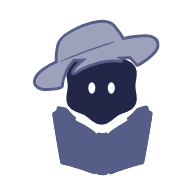
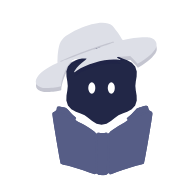
Test version: hat stands out with a soft shadow instead of an outline; clearer head at night
Claude-Session: https://claude.ai/code/session_01SnNWWGU4BvZ2AAGobJocPY

Changed region(s): [[0.1562, 0.0938, 0.8438, 0.5]]

diff --git a/beta/index.html b/beta/index.html
@@ -3715,9 +3715,10 @@ function aiHebrewDate(d){const h=hd(d);return `${h.d} ${h.n[0]} ${h.y}`}
    adm:1 = admin-only → counts as small in the version but is never announced.
    The shown version (bottom of ⋯, popups) is worked out from these sizes by ccVerStr(). A batch shows the biggest kind it contains.
    Whole new feature -> may also set `tour:'<id>'` (an id in SETS inside ccTourStart) so "Show me" runs a live tour. */
-const CC_VER=227;
+const CC_VER=228;
 const CC_LOG=[
-  {v:180,new:['The stats rings now use the new wavy style too.']},{v:181,new:['Clearer stats screen: rings and buttons easy to see in the evening, round day dots.']},{v:182,new:['Easier to read around sunset, clearer selected buttons, neater month boxes.']},{v:183,new:['Matching shapes: reminder cards, ticked shiurim and the streak days.']},{v:184,new:['Material 3 shapes for the calendar markers, the streak days and the stats.']},{v:185,new:['Each shiur has its own shape in the stats.']},{v:186,mid:1,new:['Month view: tap a day to see what’s on it right under the week; tap it again to open the day.']},{v:187,new:['Smoother and lighter on the battery: faster day changes, quieter when idle.']},{v:188,mid:1,new:['New motion everywhere: springy, physical animations — windows grow from where you tap and their content flows in.']},{v:189,mid:1,new:['Real Material 3 motion: windows grow out of the button you tap and shrink back into it, swipes between days and months follow your finger and keep its speed, selected buttons slide to their new place.']},{v:190,new:['Faster, smoother animations.']},{v:191,new:['No more blue flash when you tap something.']},{v:192,mid:1,new:['Shapes change into other shapes: ticking a box turns its square into a scalloped cookie, the selected day becomes a new shape, switches and buttons morph when you press them.']},{v:193,new:['Fixed: tapping a shiur box ticks it again.']},{v:194,mid:1,new:['The siddur has a little compass arrow at the top that points toward Yerushalayim. Tap it to see the direction.']},{v:195,new:['The siddur arrow is now a soft triangle that points the way to daven (map direction or shortest path — tap it to choose).']},{v:196,new:['The siddur direction arrow has its new shape.']},{v:197,new:['The drop arrow and its flying bubbles are gone; the cards now simply slide up as you scroll.']},{v:198,new:['Windows open and close a little slower, so the motion is easier to enjoy.']},{v:199,new:['The month view no longer looks stretched: shorter day boxes, and windows keep their shape while they open.']},{v:200,mid:1,new:['In the siddur, swipe sideways to move between Shacharis, Mincha, Maariv, Bentching and Shema; swipe in from the left edge to close it.']},{v:201,new:['Month view: the shapes behind today and the selected day are no longer stretched sideways.']},{v:202,big:1,new:['Material 3 everywhere, fixed and finished: every window grows from its button and shrinks back into it (also the full-screen ones), text stays crisp while windows move, sliding highlights in the siddur tabs, the week strip follows your finger, predictive back, moving wavy rings, a new loader, pressed buttons make room for each other, and Material 3’s Roboto Flex font.']},{v:203,new:['Cleaner look: one font for all English, solid sheets, crisper scrolling, clearer selected day, tidier settings and shiurim, calmer dusk.']},{v:204,new:['Fixes from a full check: stats now count today properly, the phone’s Back button closes the How & when guide, clearer choices at night, and small tidy-ups in the siddur and assistant.']},{v:205,new:['The stats page is much lighter and smoother (it could freeze or close the app).']},{v:206,new:['Today’s streak shape now spins into a new shape and fills up a quarter for every shiur you check off.']},{v:207,new:['Today’s streak shape now really spins (a full turn) as it changes shape.']},{v:208,new:['The assistant button is now a silhouette in the app’s colour, with a shape-shifting head that spins as you scroll.']},{v:209,new:['The assistant button has small eyes again, sized for his new head.']},{v:210,new:['The assistant has the new look everywhere he appears — every window and the notifications.']},{v:211,new:['His head stays still while he’s asleep.']},{v:227,new:['Swiping windows closed is smoother, and the Coming up date tiles have new rounded Material 3 shapes.']},
+  {v:180,new:['The stats rings now use the new wavy style too.']},{v:181,new:['Clearer stats screen: rings and buttons easy to see in the evening, round day dots.']},{v:182,new:['Easier to read around sunset, clearer selected buttons, neater month boxes.']},{v:183,new:['Matching shapes: reminder cards, ticked shiurim and the streak days.']},{v:184,new:['Material 3 shapes for the calendar markers, the streak days and the stats.']},{v:185,new:['Each shiur has its own shape in the stats.']},{v:186,mid:1,new:['Month view: tap a day to see what’s on it right under the week; tap it again to open the day.']},{v:187,new:['Smoother and lighter on the battery: faster day changes, quieter when idle.']},{v:188,mid:1,new:['New motion everywhere: springy, physical animations — windows grow from where you tap and their content flows in.']},{v:189,mid:1,new:['Real Material 3 motion: windows grow out of the button you tap and shrink back into it, swipes between days and months follow your finger and keep its speed, selected buttons slide to their new place.']},{v:190,new:['Faster, smoother animations.']},{v:191,new:['No more blue flash when you tap something.']},{v:192,mid:1,new:['Shapes change into other shapes: ticking a box turns its square into a scalloped cookie, the selected day becomes a new shape, switches and buttons morph when you press them.']},{v:193,new:['Fixed: tapping a shiur box ticks it again.']},{v:194,mid:1,new:['The siddur has a little compass arrow at the top that points toward Yerushalayim. Tap it to see the direction.']},{v:195,new:['The siddur arrow is now a soft triangle that points the way to daven (map direction or shortest path — tap it to choose).']},{v:196,new:['The siddur direction arrow has its new shape.']},{v:197,new:['The drop arrow and its flying bubbles are gone; the cards now simply slide up as you scroll.']},{v:198,new:['Windows open and close a little slower, so the motion is easier to enjoy.']},{v:199,new:['The month view no longer looks stretched: shorter day boxes, and windows keep their shape while they open.']},{v:200,mid:1,new:['In the siddur, swipe sideways to move between Shacharis, Mincha, Maariv, Bentching and Shema; swipe in from the left edge to close it.']},{v:201,new:['Month view: the shapes behind today and the selected day are no longer stretched sideways.']},{v:202,big:1,new:['Material 3 everywhere, fixed and finished: every window grows from its button and shrinks back into it (also the full-screen ones), text stays crisp while windows move, sliding highlights in the siddur tabs, the week strip follows your finger, predictive back, moving wavy rings, a new loader, pressed buttons make room for each other, and Material 3’s Roboto Flex font.']},{v:203,new:['Cleaner look: one font for all English, solid sheets, crisper scrolling, clearer selected day, tidier settings and shiurim, calmer dusk.']},{v:204,new:['Fixes from a full check: stats now count today properly, the phone’s Back button closes the How & when guide, clearer choices at night, and small tidy-ups in the siddur and assistant.']},{v:205,new:['The stats page is much lighter and smoother (it could freeze or close the app).']},{v:206,new:['Today’s streak shape now spins into a new shape and fills up a quarter for every shiur you check off.']},{v:207,new:['Today’s streak shape now really spins (a full turn) as it changes shape.']},{v:208,new:['The assistant button is now a silhouette in the app’s colour, with a shape-shifting head that spins as you scroll.']},{v:209,new:['The assistant button has small eyes again, sized for his new head.']},{v:210,new:['The assistant has the new look everywhere he appears — every window and the notifications.']},{v:211,new:['His head stays still while he’s asleep.']},{v:228,new:['The assistant\'s hat stands out with a soft shadow instead of an outline, and his head is clearer at night.']},
+{v:227,new:['Swiping windows closed is smoother, and the Coming up date tiles have new rounded Material 3 shapes.']},
 {v:226,new:['Swiping a window closed now follows your finger exactly.']},
 {v:225,new:['The top of the home screen no longer floats up and down, to save battery.']},
 {v:224,new:['Uses less battery: the sky, the assistant and the windows do less work when you are not touching the phone.']},
@@ -5919,8 +5920,12 @@ body.wm-pb.sd-hide>*{visibility:visible!important}
 :root:not(.tt-off-fabsil):not(.tt-off-m3):is([data-night="1"],[data-theme="dark"]) .cch:not(.csil),:root:not(.tt-off-fabsil):not(.tt-off-m3) #shabGate .cch{--chH:color-mix(in srgb,var(--m3p) 40%,#121633)}
 :root:not(.tt-off-fabsil):not(.tt-off-m3) .cch:not(.csil) :is(.c-hat,.c-hatb){--ink:var(--chT);--fill:var(--chT)}
 /* v223 (owner: "make the hat more recognizable, it's too similar to the background"): a bit more colour and a darker outline (the book's tone), drawn behind the fill */
-:root:not(.tt-off-fabsil):not(.tt-off-m3) .cch:not(.csil) .c-hatb .k{stroke:var(--chB)!important;stroke-width:13px!important;paint-order:stroke;stroke-linejoin:round}
-:root:not(.tt-off-fabsil):not(.tt-off-m3) .cch:not(.csil){--chT:color-mix(in srgb,var(--m3p) 58%,#fff)}
+/* v228 (owner: "I don't like the line around … find a different way to make it stand out … and by night his head is not clear against the background"): no outline; by day the hat is much lighter than the sky and casts a soft shadow (a copy of the hat drawn just below it), at night the head is a lighter tone */
+:root:not(.tt-off-fabsil):not(.tt-off-m3) .cch:not(.csil){--chT:color-mix(in srgb,var(--m3p) 20%,#fff)}
+.cch .c-hsh{display:none}
+:root:not(.tt-off-fabsil):not(.tt-off-m3) .cch:not(.csil) .c-hsh{display:inline;fill:rgba(28,32,72,.26);stroke:none!important}
+:root:not(.tt-off-fabsil):not(.tt-off-m3):is([data-night="1"],[data-theme="dark"]) .cch:not(.csil) .c-hsh,:root:not(.tt-off-fabsil):not(.tt-off-m3) #shabGate .cch .c-hsh{fill:rgba(0,0,12,.4)}
+:root:not(.tt-off-fabsil):not(.tt-off-m3):is([data-night="1"],[data-theme="dark"]) .cch:not(.csil),:root:not(.tt-off-fabsil):not(.tt-off-m3) #shabGate .cch{--chH:color-mix(in srgb,var(--m3p) 66%,#3b4280)}
 :root:not(.tt-off-fabsil):not(.tt-off-m3) .cch:not(.csil) .c-book{--ink:var(--chB);--fill:var(--chB)}
 :root:not(.tt-off-fabsil):not(.tt-off-m3):is([data-night="1"],[data-theme="dark"]) .cch:not(.csil),:root:not(.tt-off-fabsil):not(.tt-off-m3) #shabGate .cch{--m3op:#eef0ff}/* the darker head needs light eyes at night */
 :root:not(.tt-off-fabsil):not(.tt-off-m3) .cch:not(.csil) .c-fh,:root:not(.tt-off-fabsil):not(.tt-off-m3) #fabCh .c-fh{fill:var(--chH)}
@@ -6250,6 +6255,7 @@ body.wm-pb.sd-hide>*{visibility:visible!important}
  function att(el){if(el.classList.contains('csil'))return null;let o=el.__fh;const sv=el.querySelector('svg');if(!sv)return null;
   if(o&&o.hd&&o.hd.isConnected&&sv.contains(o.hd))return o;
   const ey=sv.querySelector('.c-eyes'),hat=sv.querySelector('.c-hat');if(!ey&&!hat)return null;
+  {const hb=sv.querySelector('.c-hatb');if(hb&&!hb.querySelector('.c-hsh')){const k=hb.querySelector('path');if(k){const sh=k.cloneNode(false);sh.setAttribute('class','c-hsh');sh.setAttribute('transform','translate(0 9)');hb.insertBefore(sh,hb.firstChild)}}}/* v228: the hat's soft shadow moves with the hat */
   o=o||{el,ph:Math.floor(Math.random()*N),rot:0,tw:null};o.el=el;
   o.hd=document.createElementNS(NS,'path');o.hd.setAttribute('class','c-fh');(ey||hat).parentNode.insertBefore(o.hd,ey||hat);
   el.__fh=o;ALL.add(o);eyes(o);draw(o);return o}

diff --git a/CLAUDE.md b/CLAUDE.md
@@ -74,6 +74,7 @@ Do not add files named `index (1).html` or similar: only `index.html` is served.
 - **v225 (owner picked "drop the gentle floating" from my efficiency list):** `<style id="cc-still">` before `</body>`, Test tools switch `still` (off = floating back): the endless `flXY` float is removed from `#skyBody`, `#skyTrailC`, `.sky-cap`, `.ai-fab`, the date lines/week strip (`.rv.in`) and the dome's `::before/::after` by overriding `animation-name` lists (`none` in flXY's slot; the scroll depth `flP`, dome roll `dmW`/`domeTurn`, `domeBreath` and `rv` stay; the scroll-timeline lists only inside `@supports (animation-timeline:scroll())`, matching the original rules). Idle 4× throttled: work ~808 → ~470 ms per 10 s, style time 260 → 68 ms. Same version, a v218 bug found while checking: the moon on OTHER days (not `#skyBody`) showed as a square, because its picture became a full square in v218 and only `.sky-body.moon-b .skyimg` was clipped → every `img.mimg` now gets `clip-path:var(--m3moonP)`.
 - **v226 (owner: "make the motion where the pages close with your finger smoother … it doesn't fully follow your finger"):** cc-wm `tm`: (1) a downward drag (or a rightward one where there is a back gesture) calls `preventDefault` from the FIRST touchmove, before the 10 px start threshold — once the browser had started scrolling the window's content it never gave the gesture back; (2) at drag start the window's `transform-origin` is set to the finger's spot, so the slight shrink (sheets .93, reader/siddur) keeps the held spot under the finger (cleared 900 ms after release); (3) the reader/siddur predictive back moves 90% of the finger (was 32%), scale to .9; (4) the release speed is smoothed (35/65) instead of one sample. Test: scratchpad `stp/follow.js` (drags stats/settings/assistant in 8 px steps with CDP touch events; lag 0 after the first step, was drifting to 11 px) + `morph/wsw.js`.
 - **v227 (owner: "it's still slow" + "the upcoming date cards shouldn't be generic squares … M3 Expressive shapes, the ones closer to squares"):** `<style id="cc-tiles">` before `</body>`. (1) The solid windows (`#sh`, `#ms`, `.stsp`, `.ai-card`, `.dmc`, `.sd-tc`, `.apk-card` — opaque since v203) still had `backdrop-filter: blur(16px)`: invisible, but re-blurred every frame while dragged → none now (the scrims `#bd`/`#aiBackdrop` keep theirs; they don't move); `.wm-drag` gets `will-change:translate,scale`. (2) Coming-up tiles `#rail .rt` are `clip-path` shapes in turn (`:nth-of-type`): `--tA` soft cookie square (superellipse p 4.2, sides drawn in 5% with cos 4θ), `--tB` slanted square (p 4.6, x += .13·y), `--tC` puffy square (p 3.4, sides out 4.5%); 64 points each, generated in Python; border/shadow/mask off. Test tools switch `tileshape`. (3) Bug found: tiles were 72 px wide in the 62 px `.rl` column (overflow hidden) so their right edge was always cut off → width `calc(100% - 2px)`. Test: scratchpad `stp/tiles.js` (day/night crops), `stp/tr.js` (tile vs column widths), `stp/bf.js` (backdrop-filter per window).
+- **v228 (owner: "I don't like the line around [the hat] … find a different way to make it stand out … by night his head is not so clear against the background"):** the v223 outline is gone. Day hat `--chT` = `--m3p` 20% + white (much lighter than the sky) with a soft shadow: the head script's `att()` clones the hat path into `.c-hsh` (first child of `.c-hatb`, `translate(0 9)`, so it moves with the hat), filled rgba(28,32,72,.26) by day / rgba(0,0,12,.4) at night and on the Shabbos screen (no CSS filter — the v51 rule). Night/dusk/Shabbos head `--chH` = `--m3p` 66% + #3b4280 (lighter, still the darkest part). Notification pictures re-rendered.
 - **v191 (owner: "when I click on something it turns blue, and only then it opens"):** top of `cc-m3x`: `-webkit-tap-highlight-color:transparent` on every element (it was only set on ~10), `user-select:none` + `-webkit-touch-callout:none` on tappable things (buttons, links, chips, cards, day cells, dock…; text in the reader/inputs stays selectable), and no focus outline after a tap (`:focus:not(:focus-visible)`; keyboard focus still shows).
 - **Per-profile storage:** `AK(key)`, `ST(key,default)`. Local profiles and a login gate exist (`cc_local_profiles_v1`).
 - **Accounts saved online (owner, v89; v91: Create account asks for the password twice, `#accountPass2`, shown only in create mode: "if someone logs in on a different phone or uninstalls and reinstalls, it still has all his stuff").** Push server `/acct/new|login|sync` (origin-locked; KV `acct:<user>` = `{s salt, h PBKDF2-SHA256 10k, tk: last 12 session tokens, d:{key:[value,time]}, r revision, f/ft failed sign-ins → 8 fails = 10 min lock}`; user `test` refused). The sign-in script (`window.ccAcct`) sends the typed password only to the server (the phone still keeps its old FNV `passwordHash` for offline sign-in) and keeps a token in `cc_sync_<user>` = `{t, r, h:{key: FNV hash last synced}, at}`. Synced = every `cc_profile_<user>_*` key except `cc_sd_pos`/`cc_test_*`, plus `@seen` (`cc_seen_ver_<u>`) and `@tour` (`cc_local_tour_done_<u>`). `sync(u)`: changed keys go up as `[value, time, base hash]`; the server applies a change only if its copy still matches the base, otherwise the phone merges (`merge`: JSON objects unioned one level deep, server wins a clash — so shiurim ticked on two phones are kept) and sends again. Create account = registers on the server (409 → "taken"; no internet → phone-only account, backed up later). Log in with a name unknown on this phone → `/acct/login` → the server copy is written to the phone (`applyAll`). Existing signed-in users with no token get a one-time-per-opening card `#bkCard` ("Keep your account safe": type the password; if the name is someone else's on the server, pick a new one → `ccAcct.rename` moves the phone's data). Runner (block after `acctOut` in the main script): sync 1.5 s after opening, on leaving the app, on return (after 60 s), every 2 min while open; reads are cheap, a write only when something changed (KV free plan: 1000 writes/day). New data from another phone → quiet reload (while hidden, or within 20 s of opening if untouched; else on leaving). ⋯ account card line `#acctBk` ("☁ Saved to your account · 3 min ago" / "Not saved… Tap to fix"). Test: scratchpad `acct/e2e.js` (routes the app's requests into `server/worker.js` with a fake KV: create, second phone, both phones changing, old user card, name taken → rename), `acct/wt.mjs`. **Needs the worker deployed** (owner pastes it into Cloudflare).
